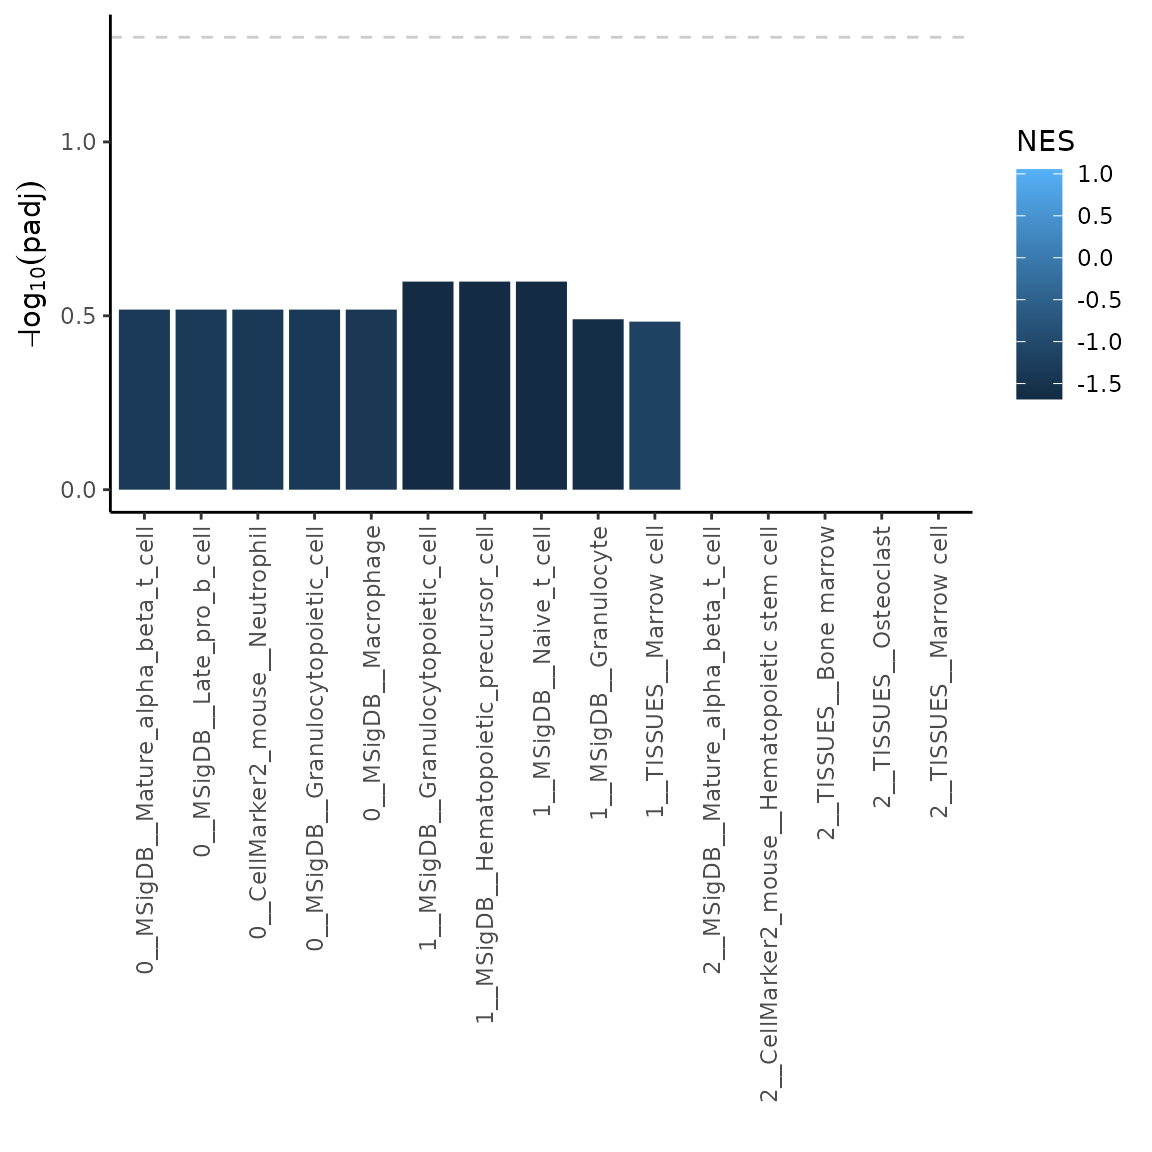
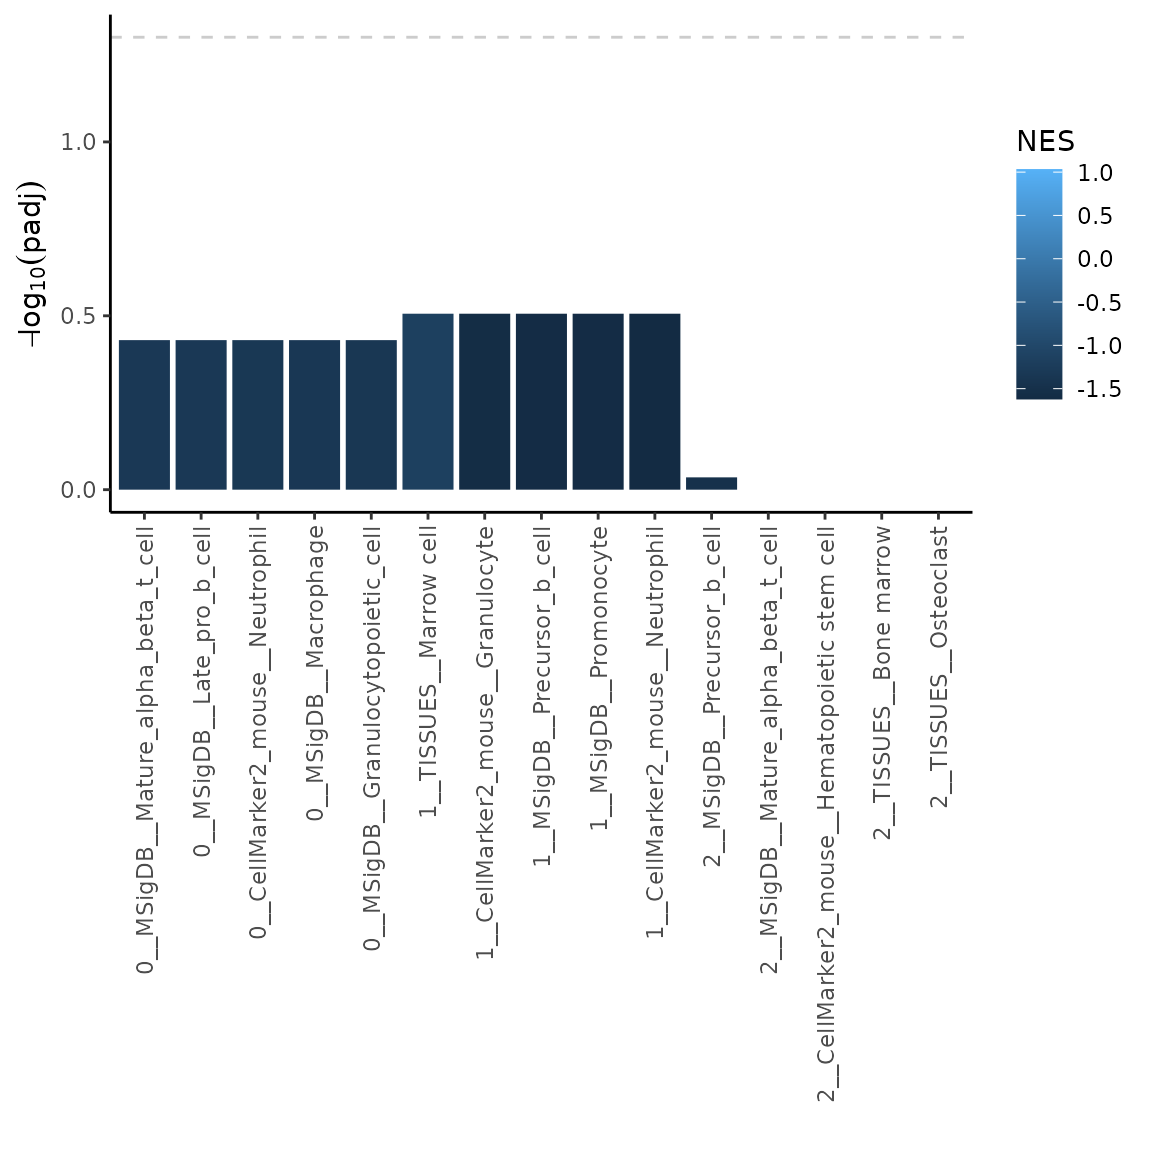
Deploying to gh-pages from @ Farber-Lab/BoneCellType@5cfd74eec15d6097672aeb3f52c2ddafe8bb5feb 🚀

diff --git a/reference/head.list.html b/reference/head.list.html
@@ -1,0 +1,105 @@
+<!DOCTYPE html>
+<!-- Generated by pkgdown: do not edit by hand --><html lang="en"><head><meta http-equiv="Content-Type" content="text/html; charset=UTF-8"><meta charset="utf-8"><meta http-equiv="X-UA-Compatible" content="IE=edge"><meta name="viewport" content="width=device-width, initial-scale=1, shrink-to-fit=no"><meta name="description" content="Returns the first or last part of a list. Instead of returning the first
+n entries as the standard head() does, it attempts to call head()
+recursively on the entries in the list. If it fails, it will return the
+particular entry (standard behavior)."><title>Return the first or last part of a list (from
+https://gist.github.com/pimentel/256fc8c9b5191da63819) — head.list • BoneCellType</title><script src="../deps/jquery-3.6.0/jquery-3.6.0.min.js"></script><meta name="viewport" content="width=device-width, initial-scale=1, shrink-to-fit=no"><link href="../deps/bootstrap-5.2.2/bootstrap.min.css" rel="stylesheet"><script src="../deps/bootstrap-5.2.2/bootstrap.bundle.min.js"></script><!-- Font Awesome icons --><link rel="stylesheet" href="https://cdnjs.cloudflare.com/ajax/libs/font-awesome/5.12.1/css/all.min.css" integrity="sha256-mmgLkCYLUQbXn0B1SRqzHar6dCnv9oZFPEC1g1cwlkk=" crossorigin="anonymous"><link rel="stylesheet" href="https://cdnjs.cloudflare.com/ajax/libs/font-awesome/5.12.1/css/v4-shims.min.css" integrity="sha256-wZjR52fzng1pJHwx4aV2AO3yyTOXrcDW7jBpJtTwVxw=" crossorigin="anonymous"><!-- bootstrap-toc --><script src="https://cdn.jsdelivr.net/gh/afeld/bootstrap-toc@v1.0.1/dist/bootstrap-toc.min.js" integrity="sha256-4veVQbu7//Lk5TSmc7YV48MxtMy98e26cf5MrgZYnwo=" crossorigin="anonymous"></script><!-- headroom.js --><script src="https://cdnjs.cloudflare.com/ajax/libs/headroom/0.11.0/headroom.min.js" integrity="sha256-AsUX4SJE1+yuDu5+mAVzJbuYNPHj/WroHuZ8Ir/CkE0=" crossorigin="anonymous"></script><script src="https://cdnjs.cloudflare.com/ajax/libs/headroom/0.11.0/jQuery.headroom.min.js" integrity="sha256-ZX/yNShbjqsohH1k95liqY9Gd8uOiE1S4vZc+9KQ1K4=" crossorigin="anonymous"></script><!-- clipboard.js --><script src="https://cdnjs.cloudflare.com/ajax/libs/clipboard.js/2.0.6/clipboard.min.js" integrity="sha256-inc5kl9MA1hkeYUt+EC3BhlIgyp/2jDIyBLS6k3UxPI=" crossorigin="anonymous"></script><!-- search --><script src="https://cdnjs.cloudflare.com/ajax/libs/fuse.js/6.4.6/fuse.js" integrity="sha512-zv6Ywkjyktsohkbp9bb45V6tEMoWhzFzXis+LrMehmJZZSys19Yxf1dopHx7WzIKxr5tK2dVcYmaCk2uqdjF4A==" crossorigin="anonymous"></script><script src="https://cdnjs.cloudflare.com/ajax/libs/autocomplete.js/0.38.0/autocomplete.jquery.min.js" integrity="sha512-GU9ayf+66Xx2TmpxqJpliWbT5PiGYxpaG8rfnBEk1LL8l1KGkRShhngwdXK1UgqhAzWpZHSiYPc09/NwDQIGyg==" crossorigin="anonymous"></script><script src="https://cdnjs.cloudflare.com/ajax/libs/mark.js/8.11.1/mark.min.js" integrity="sha512-5CYOlHXGh6QpOFA/TeTylKLWfB3ftPsde7AnmhuitiTX4K5SqCLBeKro6sPS8ilsz1Q4NRx3v8Ko2IBiszzdww==" crossorigin="anonymous"></script><!-- pkgdown --><script src="../pkgdown.js"></script><meta property="og:title" content="Return the first or last part of a list (from
+https://gist.github.com/pimentel/256fc8c9b5191da63819) — head.list"><meta property="og:description" content="Returns the first or last part of a list. Instead of returning the first
+n entries as the standard head() does, it attempts to call head()
+recursively on the entries in the list. If it fails, it will return the
+particular entry (standard behavior)."><!-- mathjax --><script src="https://cdnjs.cloudflare.com/ajax/libs/mathjax/2.7.5/MathJax.js" integrity="sha256-nvJJv9wWKEm88qvoQl9ekL2J+k/RWIsaSScxxlsrv8k=" crossorigin="anonymous"></script><script src="https://cdnjs.cloudflare.com/ajax/libs/mathjax/2.7.5/config/TeX-AMS-MML_HTMLorMML.js" integrity="sha256-84DKXVJXs0/F8OTMzX4UR909+jtl4G7SPypPavF+GfA=" crossorigin="anonymous"></script><!--[if lt IE 9]>
+<script src="https://oss.maxcdn.com/html5shiv/3.7.3/html5shiv.min.js"></script>
+<script src="https://oss.maxcdn.com/respond/1.4.2/respond.min.js"></script>
+<![endif]--></head><body>
+    <a href="#main" class="visually-hidden-focusable">Skip to contents</a>
+    
+
+    <nav class="navbar fixed-top navbar-light navbar-expand-lg bg-light"><div class="container">
+    
+    <a class="navbar-brand me-2" href="../index.html">BoneCellType</a>
+
+    <small class="nav-text text-muted me-auto" data-bs-toggle="tooltip" data-bs-placement="bottom" title="">0.0.1</small>
+
+    
+    <button class="navbar-toggler" type="button" data-bs-toggle="collapse" data-bs-target="#navbar" aria-controls="navbar" aria-expanded="false" aria-label="Toggle navigation">
+      <span class="navbar-toggler-icon"></span>
+    </button>
+
+    <div id="navbar" class="collapse navbar-collapse ms-3">
+      <ul class="navbar-nav me-auto"><li class="active nav-item">
+  <a class="nav-link" href="../reference/index.html">Reference</a>
+</li>
+<li class="nav-item dropdown">
+  <a href="#" class="nav-link dropdown-toggle" data-bs-toggle="dropdown" role="button" aria-expanded="false" aria-haspopup="true" id="dropdown-articles">Articles</a>
+  <div class="dropdown-menu" aria-labelledby="dropdown-articles">
+    <a class="dropdown-item" href="../articles/intro_to_BoneCellType.html">BoneCellType: R package for bone-relevant cell type assignment</a>
+  </div>
+</li>
+      </ul><form class="form-inline my-2 my-lg-0" role="search">
+        <input type="search" class="form-control me-sm-2" aria-label="Toggle navigation" name="search-input" data-search-index="../search.json" id="search-input" placeholder="Search for" autocomplete="off"></form>
+
+      <ul class="navbar-nav"></ul></div>
+
+    
+  </div>
+</nav><div class="container template-reference-topic">
+<div class="row">
+  <main id="main" class="col-md-9"><div class="page-header">
+      <img src="" class="logo" alt=""><h1>Return the first or last part of a list (from
+https://gist.github.com/pimentel/256fc8c9b5191da63819)</h1>
+      
+      <div class="d-none name"><code>head.list.Rd</code></div>
+    </div>
+
+    <div class="ref-description section level2">
+    <p>Returns the first or last part of a list. Instead of returning the first
+n entries as the standard head() does, it attempts to call head()
+recursively on the entries in the list. If it fails, it will return the
+particular entry (standard behavior).</p>
+    </div>
+
+    <div class="section level2">
+    <h2 id="ref-usage">Usage<a class="anchor" aria-label="anchor" href="#ref-usage"></a></h2>
+    <div class="sourceCode"><pre class="sourceCode r"><code><span><span class="co"># S3 method for list</span></span>
+<span><span class="fu"><a href="https://rdrr.io/r/utils/head.html" class="external-link">head</a></span><span class="op">(</span><span class="va">obj</span>, n <span class="op">=</span> <span class="fl">6L</span>, <span class="va">...</span><span class="op">)</span></span></code></pre></div>
+    </div>
+
+    <div class="section level2">
+    <h2 id="arguments">Arguments<a class="anchor" aria-label="anchor" href="#arguments"></a></h2>
+    <dl><dt>obj</dt>
+<dd><p>a list object</p></dd>
+
+
+<dt>n</dt>
+<dd><p>a single integer. If positive, prints the first n items for the
+list and all entries in the list. If negative, prints all but the last
+n items in the list.</p></dd>
+
+</dl></div>
+    <div class="section level2">
+    <h2 id="value">Value<a class="anchor" aria-label="anchor" href="#value"></a></h2>
+    
+
+<p>a list of length n, with items in the list of length n</p>
+    </div>
+
+  </main><aside class="col-md-3"><nav id="toc"><h2>On this page</h2>
+    </nav></aside></div>
+
+
+    <footer><div class="pkgdown-footer-left">
+  <p></p><p>Developed by Kristyna Kupkova.</p>
+</div>
+
+<div class="pkgdown-footer-right">
+  <p></p><p>Site built with <a href="https://pkgdown.r-lib.org/" class="external-link">pkgdown</a> 2.0.7.</p>
+</div>
+
+    </footer></div>
+
+  
+
+  
+
+  </body></html>
+

diff --git a/articles/intro_to_BoneCellType.html b/articles/intro_to_BoneCellType.html
@@ -66,7 +66,7 @@
                         <h4 data-toc-skip class="author">Kristyna
 Kupkova</h4>
             
-            <h4 data-toc-skip class="date">2023-09-24</h4>
+            <h4 data-toc-skip class="date">2023-09-26</h4>
       
       
       <div class="d-none name"><code>intro_to_BoneCellType.Rmd</code></div>
@@ -218,21 +218,21 @@ results.</p>
 <span>  <span class="fu"><a href="https://dplyr.tidyverse.org/reference/top_n.html" class="external-link">top_n</a></span><span class="op">(</span>n <span class="op">=</span> <span class="fl">2</span>, wt <span class="op">=</span> <span class="op">-</span><span class="va">padj</span><span class="op">)</span></span>
 <span></span>
 <span><span class="va">topGSEAres</span></span></code></pre></div>
-<pre><code><span><span class="co">#&gt; <span style="color: #949494;"># A tibble: 24 × 9</span></span></span>
+<pre><code><span><span class="co">#&gt; <span style="color: #949494;"># A tibble: 32 × 9</span></span></span>
 <span><span class="co">#&gt; <span style="color: #949494;"># Groups:   cluster [3]</span></span></span>
 <span><span class="co">#&gt;    pathway             pval  padj log2err     ES   NES  size leadingEdge cluster</span></span>
 <span><span class="co">#&gt;    <span style="color: #949494; font-style: italic;">&lt;chr&gt;</span>              <span style="color: #949494; font-style: italic;">&lt;dbl&gt;</span> <span style="color: #949494; font-style: italic;">&lt;dbl&gt;</span>   <span style="color: #949494; font-style: italic;">&lt;dbl&gt;</span>  <span style="color: #949494; font-style: italic;">&lt;dbl&gt;</span> <span style="color: #949494; font-style: italic;">&lt;dbl&gt;</span> <span style="color: #949494; font-style: italic;">&lt;int&gt;</span> <span style="color: #949494; font-style: italic;">&lt;chr&gt;</span>         <span style="color: #949494; font-style: italic;">&lt;int&gt;</span></span></span>
-<span><span class="co">#&gt; <span style="color: #BCBCBC;"> 1</span> CellMarker2_mous… 0.065<span style="text-decoration: underline;">0</span> 0.303   0.204 -<span style="color: #BB0000;">0.905</span> -<span style="color: #BB0000;">1.46</span>     7 Hba-a1            0</span></span>
-<span><span class="co">#&gt; <span style="color: #BCBCBC;"> 2</span> CellMarker2_mous… 0.134  0.303   0.142 -<span style="color: #BB0000;">0.852</span> -<span style="color: #BB0000;">1.35</span>     6 S100a9,Ltf…       0</span></span>
-<span><span class="co">#&gt; <span style="color: #BCBCBC;"> 3</span> CellMarker2_mous… 0.070<span style="text-decoration: underline;">6</span> 0.303   0.194 -<span style="color: #BB0000;">0.901</span> -<span style="color: #BB0000;">1.48</span>     8 Hba-a1,Hbb…       0</span></span>
-<span><span class="co">#&gt; <span style="color: #BCBCBC;"> 4</span> CellMarker2_mous… 0.063<span style="text-decoration: underline;">3</span> 0.303   0.219 -<span style="color: #BB0000;">0.927</span> -<span style="color: #BB0000;">1.46</span>     5 Hba-a1            0</span></span>
-<span><span class="co">#&gt; <span style="color: #BCBCBC;"> 5</span> MSigDB__Granuloc… 0.090<span style="text-decoration: underline;">4</span> 0.303   0.181 -<span style="color: #BB0000;">0.896</span> -<span style="color: #BB0000;">1.41</span>     5 S100a9,Mal…       0</span></span>
-<span><span class="co">#&gt; <span style="color: #BCBCBC;"> 6</span> MSigDB__Granuloc… 0.135  0.303   0.128 -<span style="color: #BB0000;">0.829</span> -<span style="color: #BB0000;">1.37</span>    13 S100a9,Mal…       0</span></span>
-<span><span class="co">#&gt; <span style="color: #BCBCBC;"> 7</span> MSigDB__Hematopo… 0.079<span style="text-decoration: underline;">9</span> 0.303   0.181 -<span style="color: #BB0000;">0.889</span> -<span style="color: #BB0000;">1.46</span>     8 S100a9,Mal…       0</span></span>
-<span><span class="co">#&gt; <span style="color: #BCBCBC;"> 8</span> MSigDB__Late_pro… 0.141  0.303   0.138 -<span style="color: #BB0000;">0.847</span> -<span style="color: #BB0000;">1.35</span>     6 S100a9,S10…       0</span></span>
-<span><span class="co">#&gt; <span style="color: #BCBCBC;"> 9</span> MSigDB__Macropha… 0.117  0.303   0.147 -<span style="color: #BB0000;">0.847</span> -<span style="color: #BB0000;">1.39</span>     8 S100a9,Ltf…       0</span></span>
-<span><span class="co">#&gt; <span style="color: #BCBCBC;">10</span> MSigDB__Mature_a… 0.147  0.303   0.135 -<span style="color: #BB0000;">0.843</span> -<span style="color: #BB0000;">1.34</span>     6 Malat1            0</span></span>
-<span><span class="co">#&gt; <span style="color: #949494;"># ℹ 14 more rows</span></span></span></code></pre>
+<span><span class="co">#&gt; <span style="color: #BCBCBC;"> 1</span> CellMarker2_mous… 0.085<span style="text-decoration: underline;">6</span> 0.371   0.180 -<span style="color: #BB0000;">0.905</span> -<span style="color: #BB0000;">1.43</span>     7 Hba-a1            0</span></span>
+<span><span class="co">#&gt; <span style="color: #BCBCBC;"> 2</span> CellMarker2_mous… 0.169  0.371   0.125 -<span style="color: #BB0000;">0.852</span> -<span style="color: #BB0000;">1.34</span>     6 S100a9,Ltf…       0</span></span>
+<span><span class="co">#&gt; <span style="color: #BCBCBC;"> 3</span> CellMarker2_mous… 0.093<span style="text-decoration: underline;">0</span> 0.371   0.168 -<span style="color: #BB0000;">0.901</span> -<span style="color: #BB0000;">1.43</span>     8 Hba-a1,Hbb…       0</span></span>
+<span><span class="co">#&gt; <span style="color: #BCBCBC;"> 4</span> CellMarker2_mous… 0.072<span style="text-decoration: underline;">8</span> 0.371   0.202 -<span style="color: #BB0000;">0.927</span> -<span style="color: #BB0000;">1.44</span>     5 Hba-a1            0</span></span>
+<span><span class="co">#&gt; <span style="color: #BCBCBC;"> 5</span> MSigDB__Granuloc… 0.105  0.371   0.166 -<span style="color: #BB0000;">0.896</span> -<span style="color: #BB0000;">1.39</span>     5 S100a9,Mal…       0</span></span>
+<span><span class="co">#&gt; <span style="color: #BCBCBC;"> 6</span> MSigDB__Granuloc… 0.136  0.371   0.126 -<span style="color: #BB0000;">0.829</span> -<span style="color: #BB0000;">1.36</span>    13 S100a9,Mal…       0</span></span>
+<span><span class="co">#&gt; <span style="color: #BCBCBC;"> 7</span> MSigDB__Hematopo… 0.101  0.371   0.161 -<span style="color: #BB0000;">0.889</span> -<span style="color: #BB0000;">1.41</span>     8 S100a9,Mal…       0</span></span>
+<span><span class="co">#&gt; <span style="color: #BCBCBC;"> 8</span> MSigDB__Late_pro… 0.175  0.371   0.123 -<span style="color: #BB0000;">0.847</span> -<span style="color: #BB0000;">1.33</span>     6 S100a9,S10…       0</span></span>
+<span><span class="co">#&gt; <span style="color: #BCBCBC;"> 9</span> MSigDB__Macropha… 0.154  0.371   0.128 -<span style="color: #BB0000;">0.847</span> -<span style="color: #BB0000;">1.34</span>     8 S100a9,Ltf…       0</span></span>
+<span><span class="co">#&gt; <span style="color: #BCBCBC;">10</span> MSigDB__Mature_a… 0.179  0.371   0.121 -<span style="color: #BB0000;">0.843</span> -<span style="color: #BB0000;">1.32</span>     6 Malat1            0</span></span>
+<span><span class="co">#&gt; <span style="color: #949494;"># ℹ 22 more rows</span></span></span></code></pre>
 <p>As shown, the output is a table with following variables-
 <em>pathaway</em>: defines a set of markers used for GSEA analysis /
 <em>pval</em>: p-value / <em>padj</em>: adjusted p-value /

diff --git a/reference/index.html b/reference/index.html
@@ -66,6 +66,12 @@ Each item contains associated markers.</dd>
 List names indicate a given cell type. Each item contains associated markers.</dd>
       </dl><dl><dt>
           
+          <code><a href="head.list.html">head(<i>&lt;list&gt;</i>)</a></code> 
+        </dt>
+        <dd>Return the first or last part of a list (from
+https://gist.github.com/pimentel/256fc8c9b5191da63819)</dd>
+      </dl><dl><dt>
+          
           <code><a href="markerDatabase.html">markerDatabase</a></code> 
         </dt>
         <dd>Dataset containing bone-related markers.</dd>
